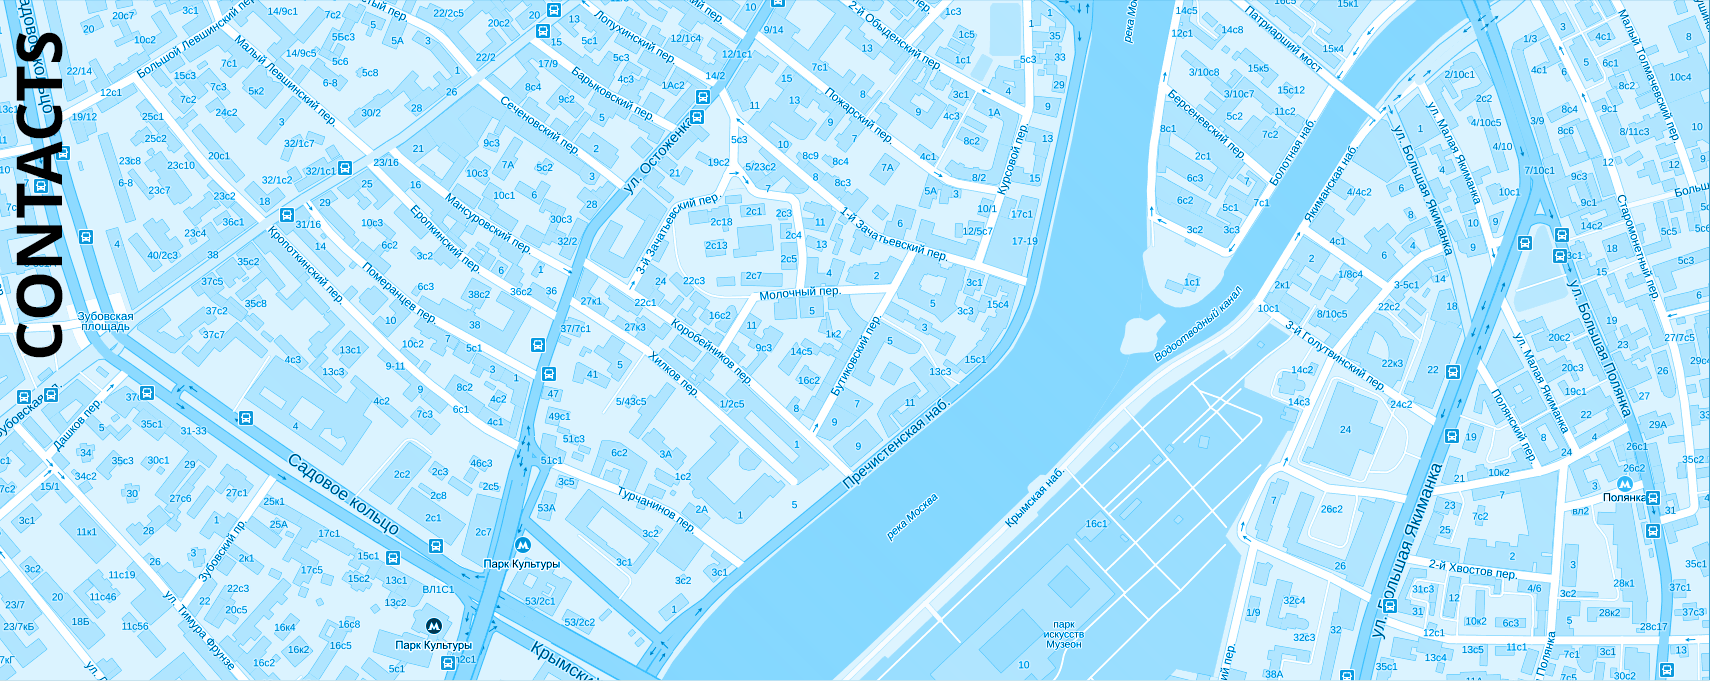
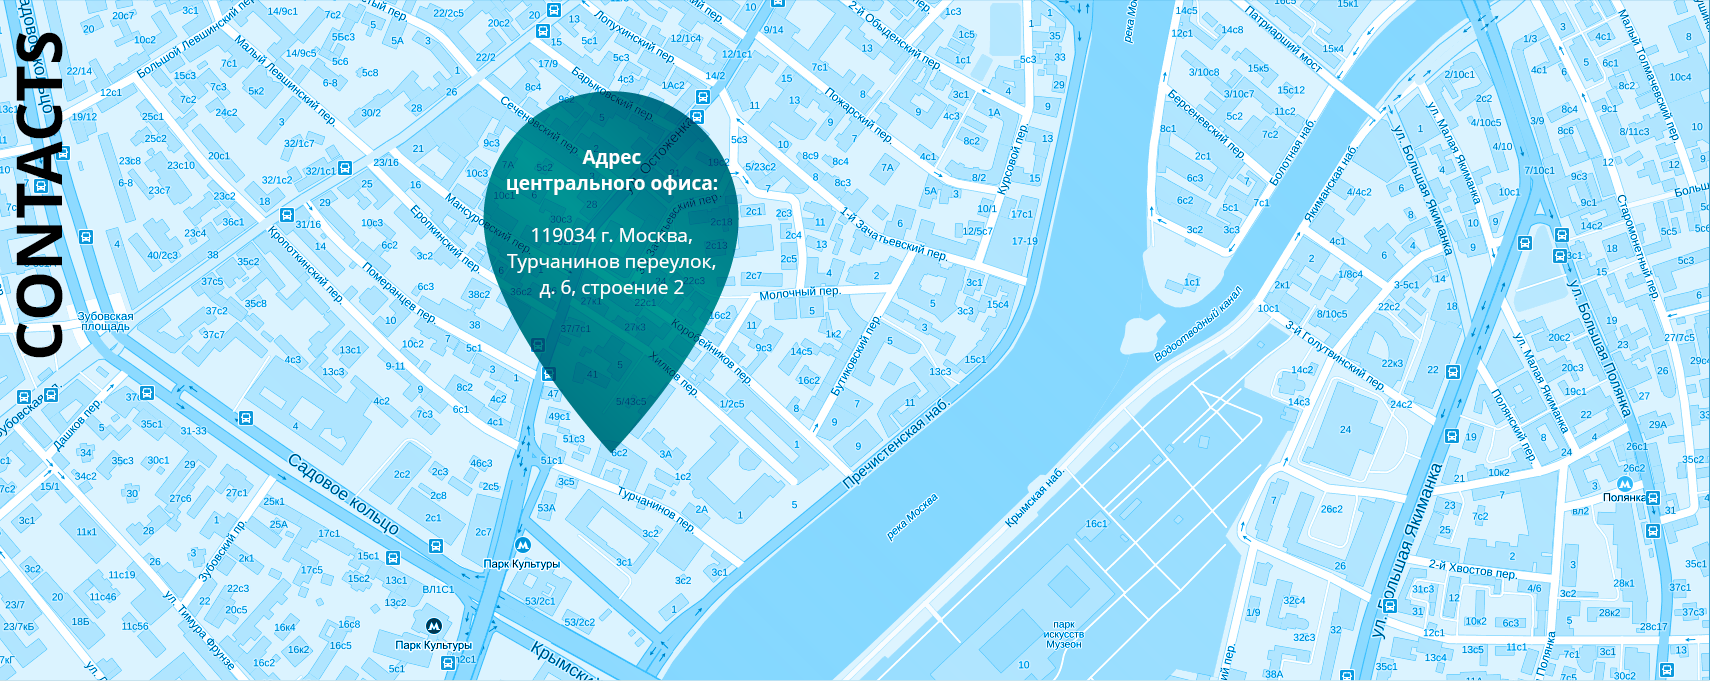
fghj

Changed region(s): [[0.2789, 0.1233, 0.4339, 0.6784]]

diff --git a/intec/index.html b/intec/index.html
@@ -29,6 +29,19 @@
 		<div id="content">
 			<ul id="mainul">
 				<li id="contact">
+					<div class="whitenote notecon">
+						<strong>Телефон центрального офиса:</strong>
+						<p>+7 (495) 230-01-86</p>
+						<strong>E-mail:</strong>
+						<a href="info@7intec.com">info@7intec.com</a>
+						<strong>Компании, входящие в Холдинг:</strong>
+						<b>«Центр автоматизации энергосбережения»</b>
+						<a href="www.caesber.ru">www.caesber.ru</a>
+						<b>«Прогресс решение»</b>
+						<a href="www.progresspoint.ru">www.progresspoint.ru</a>
+						<b>«Мопекс»</b>
+						<a href="www.mopex.ru">www.mopex.ru</a>
+					</div>
 				</li>
 				<li id="client">
 					<div class="whitenote">
